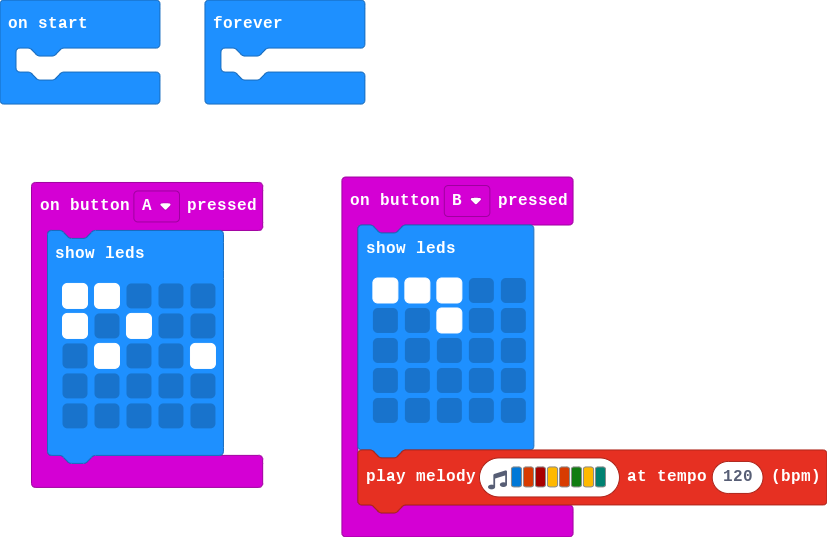
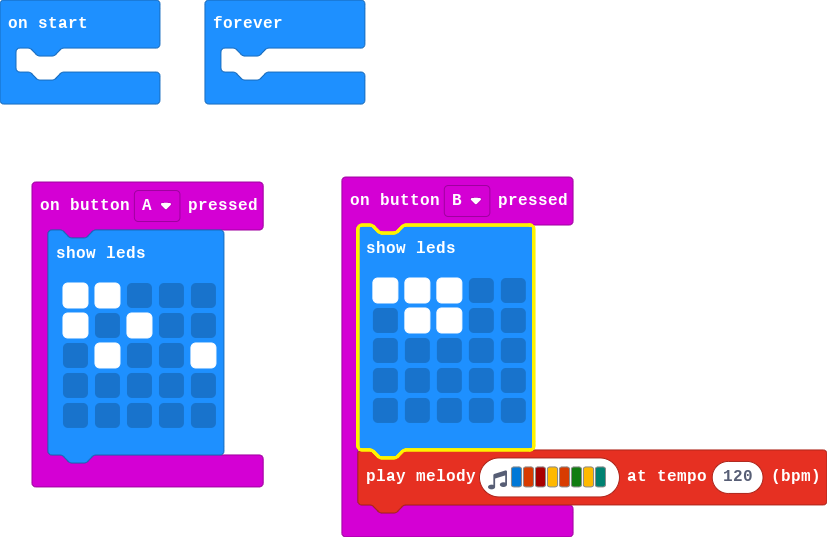
Update main.blocks, main.ts

diff --git a/main.ts b/main.ts
@@ -10,7 +10,7 @@ input.onButtonPressed(Button.A, function () {
 input.onButtonPressed(Button.B, function () {
     basic.showLeds(`
         # # # . .
-        . . # . .
+        . # # . .
         . . . . .
         . . . . .
         . . . . .
